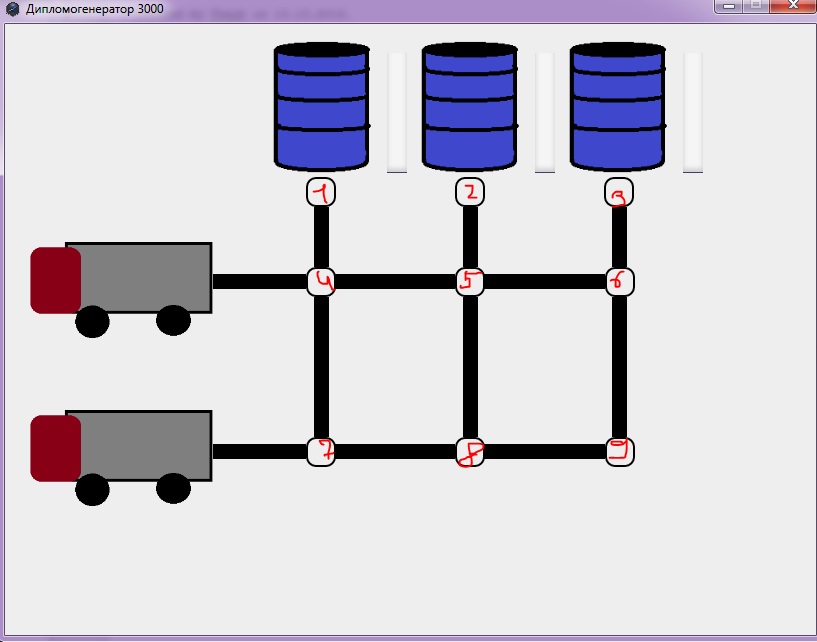
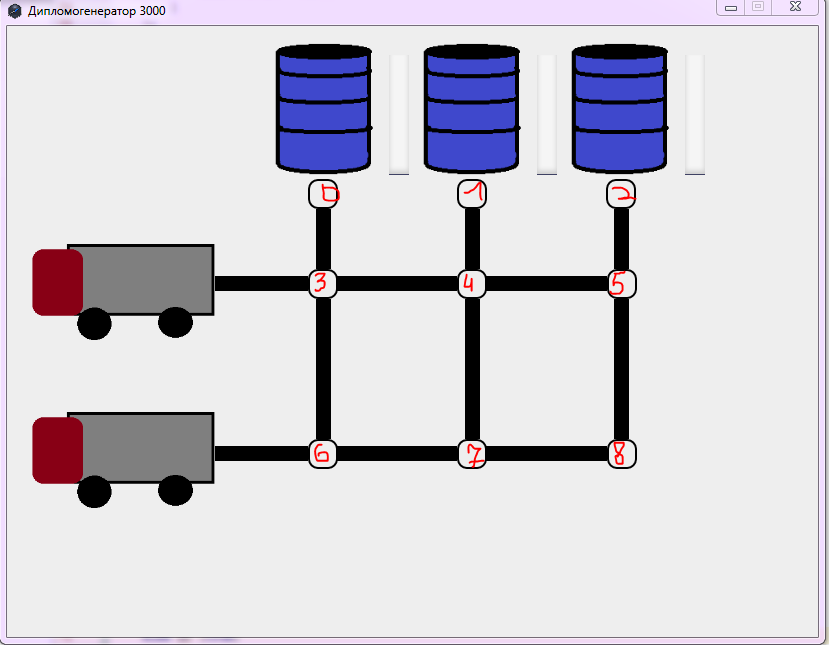
path withouts color pipes

diff --git a/views/app.html b/views/app.html
@@ -28,6 +28,10 @@
     <div id="pipes">
         <div id="toBarrelsPipesBlock">
             <div class="toBarrelPipes" style="margin-left: 93px;">
+                <div class="iconDiv" onclick="activatePoint(0)" id="point0"></div>
+                <div class="toBarrelPipesInt"></div>
+            </div>
+            <div class="toBarrelPipes" style="margin-left: 115px;">
                 <div class="iconDiv" onclick="activatePoint(1)" id="point1"></div>
                 <div class="toBarrelPipesInt"></div>
             </div>
@@ -35,23 +39,19 @@
                 <div class="iconDiv" onclick="activatePoint(2)" id="point2"></div>
                 <div class="toBarrelPipesInt"></div>
             </div>
-            <div class="toBarrelPipes" style="margin-left: 115px;">
-                <div class="iconDiv" onclick="activatePoint(3)" id="point3"></div>
-                <div class="toBarrelPipesInt"></div>
-            </div>
         </div>
         <div id="highPipesBlock">
             <div class="highPipes" style="margin-left: 0; width: 123px">
                 <div class="highPipesInt" style="width: 93px"></div>
+                <div class="iconDiv" onclick="activatePoint(3)" style="float: right;" id="point3"></div>
+            </div>
+            <div class="highPipes">
+                <div class="highPipesInt" style="width: 121px"></div>
                 <div class="iconDiv" onclick="activatePoint(4)" style="float: right;" id="point4"></div>
             </div>
             <div class="highPipes">
                 <div class="highPipesInt" style="width: 121px"></div>
                 <div class="iconDiv" onclick="activatePoint(5)" style="float: right;" id="point5"></div>
-            </div>
-            <div class="highPipes">
-                <div class="highPipesInt" style="width: 121px"></div>
-                <div class="iconDiv" onclick="activatePoint(6)" style="float: right;" id="point6"></div>
             </div>
         </div>
         <div id="middlePipesBlock">
@@ -62,15 +62,15 @@
         <div id="lowPipesBlock">
             <div class="lowPipes" style="margin-left: 0; width: 123px">
                 <div class="lowPipesInt" style="width: 93px"></div>
+                <div class="iconDiv" onclick="activatePoint(6)" style="float: right;" id="point6"></div>
+            </div>
+            <div class="lowPipes">
+                <div class="lowPipesInt" style="width: 121px"></div>
                 <div class="iconDiv" onclick="activatePoint(7)" style="float: right;" id="point7"></div>
             </div>
             <div class="lowPipes">
                 <div class="lowPipesInt" style="width: 121px"></div>
                 <div class="iconDiv" onclick="activatePoint(8)" style="float: right;" id="point8"></div>
-            </div>
-            <div class="lowPipes">
-                <div class="lowPipesInt" style="width: 121px"></div>
-                <div class="iconDiv" onclick="activatePoint(9)" style="float: right;" id="point9"></div>
             </div>
         </div>
     </div>

diff --git a/scripts/firstLab.js b/scripts/firstLab.js
@@ -35,25 +35,69 @@ function Point(numb,pointArr,isStart,isFinish) {
     };
     this.domElem = document.getElementById('point'+this.numb);
 }
-var point1 = new Point(1,[], false, true),
-    point2 = new Point(2,[], false, true),
-    point3 = new Point(3,[], false, true),
-    point4 = new Point(4,[1,5,7],true,false),
-    point5 = new Point(5,[4,2,6,8],false,false),
-    point6 = new Point(6,[5,3,9],false,false),
-    point7 = new Point(7,[4,8],true,false),
-    point8 = new Point(8,[5,9],false,false),
-    point9 = new Point(9,[8,6],false,false);
+function Path() {
+    this.startPoint = {};
+    this.lastPoint = {};
+    this.points = [];
+    this.finishedPoint = {};
+    this.isStarted = false;
+    this.isFinished = false;
+}
 
-var points = [point1,point2,point3,point4,point5,point6,point7,point8,point9];
+var point0 = new Point(0,[], false, true),
+    point1 = new Point(1,[], false, true),
+    point2 = new Point(2,[], false, true),
+    point3 = new Point(3,[0,4,6],true,false),
+    point4 = new Point(4,[3,1,5,7],false,false),
+    point5 = new Point(5,[4,2,8],false,false),
+    point6 = new Point(6,[3,7],true,false),
+    point7 = new Point(7,[4,8],false,false),
+    point8 = new Point(8,[7,5],false,false);
+
+var points = [point0,point1,point2,point3,point4,point5,point6,point7,point8];
+var pathIsStarted = false;
+var path;
 
 function activatePoint(numb)
 {
-    for(var i=0; i<points.length; i++)
+    var point = points[numb];
+    if(point.isStart == true && pathIsStarted == false)
     {
-        if(points[i].numb == numb)
+        pathIsStarted = true;
+        path = new Path();
+        path.startPoint = point;
+        path.lastPoint = point;
+        path.points.push(point);
+        path.isStarted = true;
+        point.changeStatus();
+    }
+    else if (pathIsStarted == true)
+    {
+        var lastPoint = path.lastPoint;
+        for (var i=0; i<lastPoint.pointArr.length; i++)
         {
-            points[i].changeStatus();
+            if((lastPoint.pointArr[i] == numb) && point.status == 'off')
+            {
+                if(point.isFinish == false)
+                {
+                    path.lastPoint = point;
+                    path.points.push(point);
+                    point.changeStatus();
+                }
+                else
+                {
+                    path = {};
+                    pathIsStarted = false;
+                    point.changeStatus();
+                }
+
+            }
         }
     }
+    /*else if (point.isFinish == true && pathIsStarted == true)
+    {
+        path = {};
+        pathIsStarted = false;
+        point.changeStatus();
+    }*/
 }
